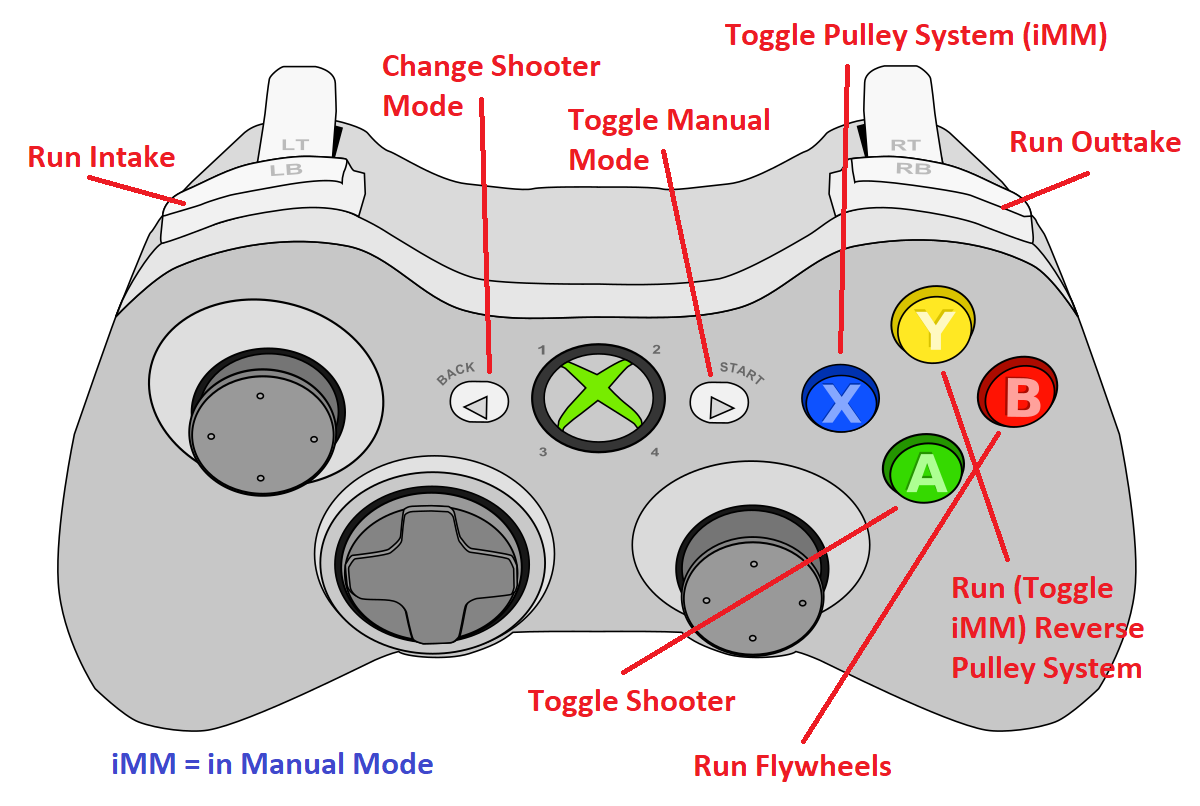
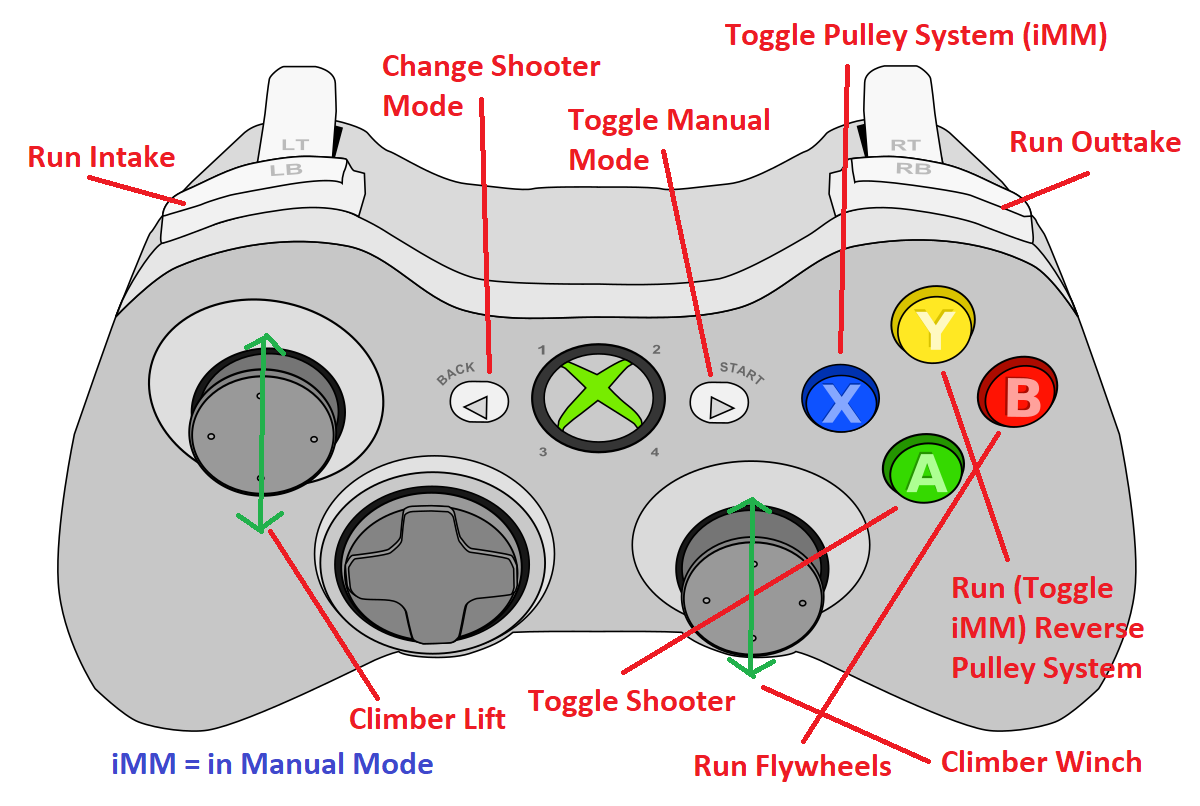
Updated controls diagrams

diff --git a/src/main/java/frc/robot/Constants.java b/src/main/java/frc/robot/Constants.java
@@ -83,17 +83,17 @@ public final class Constants {
 
     // OI
     public static final int
-            directMoveXAxis = 0,
+            directMoveXAxis = 0, // Left X axis
             directMoveXAxisScalar = 1,
 
-            directMoveYAxis = 1,
+            directMoveYAxis = 1, // Left Y axis
             directMoveYAxisScalar = -1,
 			
-			liftAxis = 1,
-			winchAxis = 5;
+			liftAxis = 1, // Left Y axis
+			winchAxis = 5; // Right Y axis
 
     public static final int
-            rotateXAxis = 4,
+            rotateXAxis = 4, // Right X axis
             rotateXAxisScalar = 1;
 
     public static final double

diff --git a/src/main/java/frc/robot/RobotContainer.java b/src/main/java/frc/robot/RobotContainer.java
@@ -69,7 +69,7 @@ public class RobotContainer {
     public Command getAutonomousCommand () {
         // return new BouncePath(swerveDrive);
         // return new SlalomPath(swerveDrive);
-		return SlowDrive.make(swerveDrive, 0, 0.5);
+		return SlowDrive.make(swerveDrive, 0, 1.5);
     }
     
     public void onTestInit () {
